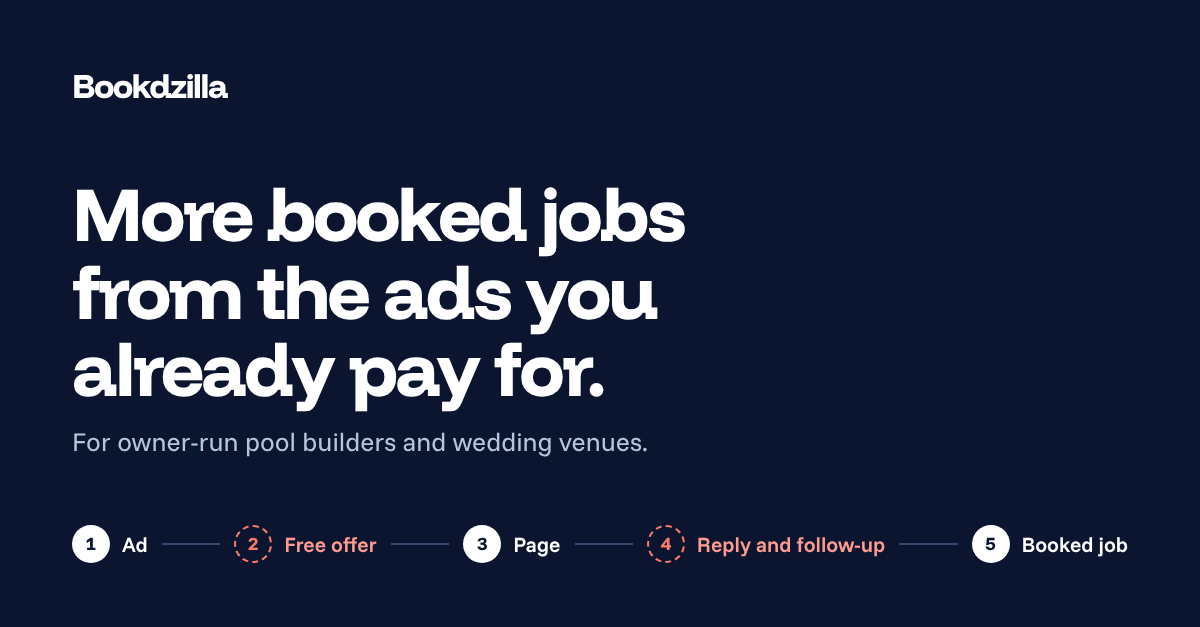
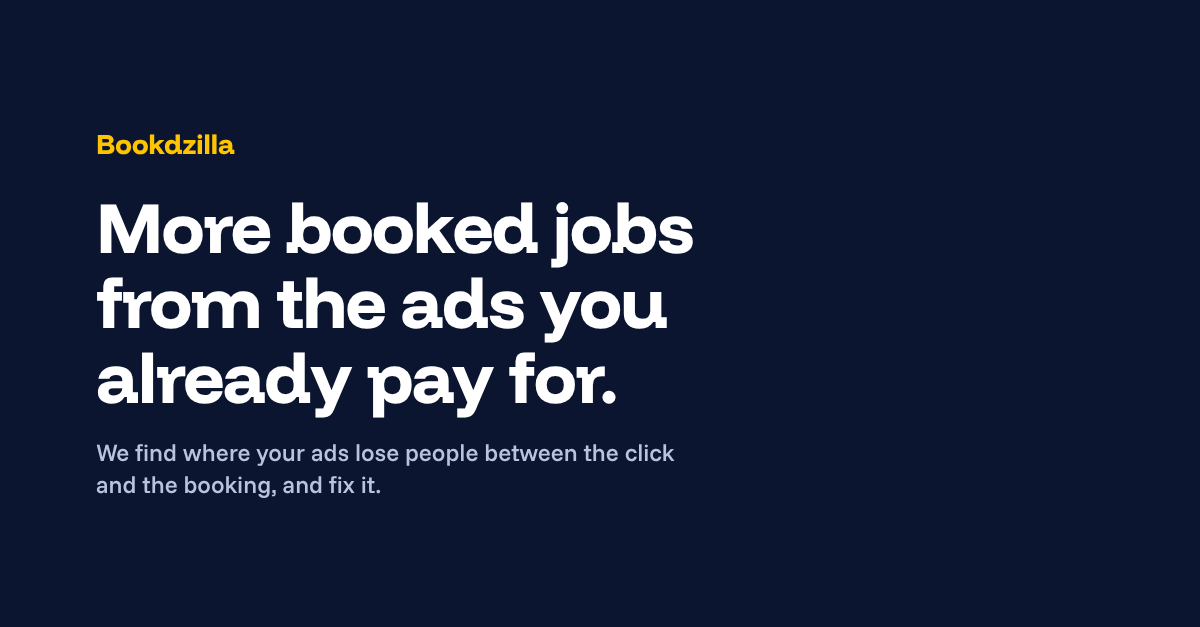
Leaks section shows the kinds of fixes, not one fixed system; new preview image
Claude-Session: https://claude.ai/code/session_016RMEP64JHwVvMxa7aEn8Ld

diff --git a/index.html b/index.html
@@ -4,18 +4,18 @@
 <meta charset="utf-8">
 <meta name="viewport" content="width=device-width,initial-scale=1">
 <title>Bookdzilla | More booked jobs from the ads you already pay for</title>
-<meta name="description" content="Bookdzilla finds where your paid traffic leaks between the click and the booking, then fixes it: ads with one clear promise, pages that keep it, a free offer, an answer within a minute and follow-up until they book. For owner-run pool builders and wedding venues. Free 2-minute leak check.">
+<meta name="description" content="Bookdzilla finds where your paid traffic leaks between the click and the booking, then fixes it, so the ads you already pay for book more jobs. For owner-run, high-ticket businesses. Free 2-minute leak check.">
 <link rel="icon" href="favicon.svg" type="image/svg+xml">
 <link rel="canonical" href="https://bookdzilla.pages.dev/">
 <meta property="og:title" content="Bookdzilla | More booked jobs from the ads you already pay for">
-<meta property="og:description" content="For owner-run pool builders and wedding venues. We find where your paid traffic leaks between the click and the booking, then fix it.">
+<meta property="og:description" content="For owner-run, high-ticket businesses. We find where your paid traffic leaks between the click and the booking, then fix it.">
 <meta property="og:url" content="https://bookdzilla.pages.dev/">
 <meta property="og:type" content="website">
 <meta property="og:image" content="https://bookdzilla.pages.dev/og.png">
 <meta property="og:image:width" content="1200">
 <meta property="og:image:height" content="627">
 <meta name="twitter:card" content="summary_large_image">
-<script type="application/ld+json">{"@context":"https://schema.org","@graph":[{"@type":"ProfessionalService","name":"Bookdzilla","url":"https://bookdzilla.pages.dev/","description":"More booked jobs from the ads you already pay for. Bookdzilla finds where paid traffic leaks between the click and the booking for owner-run pool builders and wedding venues, then fixes it.","areaServed":[{"@type":"State","name":"Texas"},{"@type":"Country","name":"United States"}],"serviceType":["Meta ads","Google ads landing pages","Lead follow-up","Appointment booking","Conversion rate optimization"],"founder":{"@type":"Person","name":"Hamza","url":"https://www.linkedin.com/in/hamza-bookdzilla/"},"email":"bookdzilla@gmail.com","offers":{"@type":"Offer","description":"Fixed monthly price set after a free leak check. Month to month. Ad budget paid directly to Meta or Google."}},{"@type":"FAQPage","mainEntity":[{"@type":"Question","name":"What does it cost?","acceptedAnswer":{"@type":"Answer","text":"It depends on what needs fixing and what one booked job is worth to you. You get a fixed monthly price after the free leak check, before anything starts, and it's month to month. Your ad budget stays yours and goes straight to Meta or Google. The fee covers the ads we make, the pages, the replies and follow-up, and the Monday report."}},{"@type":"Question","name":"Is there a contract?","acceptedAnswer":{"@type":"Answer","text":"No. You can stop any month."}},{"@type":"Question","name":"Who owns the ad accounts, pages and contacts?","acceptedAnswer":{"@type":"Answer","text":"You do. Your ad accounts, your pages and every contact stay yours if you stop."}},{"@type":"Question","name":"We don't run ads yet. Can you help?","acceptedAnswer":{"@type":"Answer","text":"Probably not yet. We work with businesses already paying for Meta or Google ads, because that's where leaks cost money you can see."}},{"@type":"Question","name":"Do you replace my ads person or agency?","acceptedAnswer":{"@type":"Answer","text":"Not necessarily. If someone runs your Google ads well, we work on what happens after the click: the pages, the free offer, the replies and the follow-up. We can run your Meta ads too."}},{"@type":"Question","name":"Where are you based?","acceptedAnswer":{"@type":"Answer","text":"Bookdzilla is run by Hamza from Bahawalpur, Pakistan, on US business hours, by email, video and LinkedIn. You see every page and message before it goes live."}},{"@type":"Question","name":"Do you use AI?","acceptedAnswer":{"@type":"Answer","text":"Yes, behind the scenes, like any good software: it helps us write ads, build pages faster and answer new leads within a minute. You approve every message before it goes live, and anyone who asks for a person gets you or your team. You pay for booked jobs, not software."}},{"@type":"Question","name":"How fast does it start?","acceptedAnswer":{"@type":"Answer","text":"The leak check video within a day of getting your website. If you go ahead, everything is live in about 14 days."}}]}]}</script>
+<script type="application/ld+json">{"@context":"https://schema.org","@graph":[{"@type":"ProfessionalService","name":"Bookdzilla","url":"https://bookdzilla.pages.dev/","description":"More booked jobs from the ads you already pay for. Bookdzilla finds where paid traffic leaks between the click and the booking for owner-run, high-ticket businesses, then fixes it.","areaServed":[{"@type":"State","name":"Texas"},{"@type":"Country","name":"United States"}],"serviceType":["Meta ads","Google ads landing pages","Lead follow-up","Appointment booking","Conversion rate optimization"],"founder":{"@type":"Person","name":"Hamza","url":"https://www.linkedin.com/in/hamza-bookdzilla/"},"email":"bookdzilla@gmail.com","offers":{"@type":"Offer","description":"Fixed monthly price set after a free leak check. Month to month. Ad budget paid directly to Meta or Google."}},{"@type":"FAQPage","mainEntity":[{"@type":"Question","name":"What does it cost?","acceptedAnswer":{"@type":"Answer","text":"It depends on what needs fixing and what one booked job is worth to you. You get a fixed monthly price after the free leak check, before anything starts, and it's month to month. Your ad budget stays yours and goes straight to Meta or Google. The fee covers the ads we make, the pages, the replies and follow-up, and the Monday report."}},{"@type":"Question","name":"Is there a contract?","acceptedAnswer":{"@type":"Answer","text":"No. You can stop any month."}},{"@type":"Question","name":"Who owns the ad accounts, pages and contacts?","acceptedAnswer":{"@type":"Answer","text":"You do. Your ad accounts, your pages and every contact stay yours if you stop."}},{"@type":"Question","name":"We don't run ads yet. Can you help?","acceptedAnswer":{"@type":"Answer","text":"Probably not yet. We work with businesses already paying for Meta or Google ads, because that's where leaks cost money you can see."}},{"@type":"Question","name":"Do you replace my ads person or agency?","acceptedAnswer":{"@type":"Answer","text":"Not necessarily. If someone runs your Google ads well, we work on what happens after the click. We can run your Meta ads too."}},{"@type":"Question","name":"Where are you based?","acceptedAnswer":{"@type":"Answer","text":"Bookdzilla is run by Hamza from Bahawalpur, Pakistan, on US business hours, by email, video and LinkedIn. You see every page and message before it goes live."}},{"@type":"Question","name":"Do you use AI?","acceptedAnswer":{"@type":"Answer","text":"Yes, behind the scenes, like any good software: it helps us write ads, build pages faster and answer new leads within a minute. You approve every message before it goes live, and anyone who asks for a person gets you or your team. You pay for booked jobs, not software."}},{"@type":"Question","name":"How fast does it start?","acceptedAnswer":{"@type":"Answer","text":"The leak check video within a day of getting your website. If you go ahead, everything is live in about 14 days."}}]}]}</script>
 <link rel="preconnect" href="https://fonts.googleapis.com">
 <link rel="preconnect" href="https://fonts.gstatic.com" crossorigin>
 <link rel="stylesheet" href="https://fonts.googleapis.com/css2?family=Funnel+Display:wght@500;700;800&family=Funnel+Sans:wght@400;500;600&display=swap">
@@ -250,7 +250,7 @@ footer a{color:var(--on-dark)}
       <h1>More booked jobs from the ads you already pay for.</h1>
       <div class="hero-row">
         <div>
-          <p class="lead">For owner-run pool builders and wedding venues. We find where your paid traffic leaks between the click and the booking, then fix it.</p>
+          <p class="lead">For owner-run, high-ticket businesses. We find where your paid traffic leaks between the click and the booking, then fix it.</p>
           <div class="acts">
             <a class="btn" href="#check">Get my free leak check</a>
             <small>A 2-minute video of your own ads and pages. Free, no call.</small>
@@ -310,32 +310,32 @@ footer a{color:var(--on-dark)}
   <section class="sec" id="leaks" aria-labelledby="leaks-h">
     <div class="wrap">
       <h2 id="leaks-h">Where paid traffic leaks.</h2>
-      <p class="intro">Every booked job travels the same five steps. Most businesses have the ad and a page. Almost none have the free offer or the follow-up, and that gap is where we start.</p>
+      <p class="intro">Every business leaks somewhere different. One has a tired ad, another a page that loses people, another a phone nobody answers after 5pm. The leak check finds yours, and the fix is built for that, not copied from a template.</p>
       <ol class="path">
         <li>
           <div class="step"><span class="n" aria-hidden="true">1</span><h3>The ad</h3></div>
-          <p class="lk"><b>Where it leaks</b>Three promises at once, or none. People click out of curiosity and leave.</p>
-          <p><b>What we do</b>Meta ads with one clear promise, written, designed and run by us. Your Google ads tidied so each one opens the page that matches it.</p>
-        </li>
-        <li class="missing">
-          <div class="step"><span class="n" aria-hidden="true">2</span><div><h3>A free offer</h3><span class="miss">Usually missing</span></div></div>
-          <p class="lk"><b>Where it leaks</b>Most people who click aren't ready to buy today. With nothing to take, they leave and don't come back.</p>
-          <p><b>What we do</b>Something worth asking for now: a backyard design visit or a local price guide for pool builders, an open-dates and pricing check for venues.</p>
+          <p class="lk"><b>Where it leaks</b>A vague promise, or creative that has gone stale and costs more every week.</p>
+          <p><b>What the fix can look like</b>New angles and creative, a sharper offer, or tighter targeting.</p>
         </li>
         <li>
-          <div class="step"><span class="n" aria-hidden="true">3</span><h3>The page</h3></div>
-          <p class="lk"><b>Where it leaks</b>The page doesn't repeat what the ad said, the reviews are hidden, and the form is screens away.</p>
-          <p><b>What we do</b>One page per ad that says what the ad said, your Google rating on the first screen, and booking or a quote one tap away.</p>
-        </li>
-        <li class="missing">
-          <div class="step"><span class="n" aria-hidden="true">4</span><div><h3>The answer and follow-up</h3><span class="miss">Usually missing</span></div></div>
-          <p class="lk"><b>Where it leaks</b>The reply comes the next day, then stops. Buyers ask two or three businesses and book whoever answers first.</p>
-          <p><b>What we do</b>An answer within a minute with prices and two times to choose from. Texts and emails keep going until they book or say no.</p>
+          <div class="step"><span class="n" aria-hidden="true">2</span><h3>The page</h3></div>
+          <p class="lk"><b>Where it leaks</b>It doesn't say what the ad said, hides the proof, or makes booking hard.</p>
+          <p><b>What the fix can look like</b>A reworked page, a new landing page, or a full funnel.</p>
         </li>
         <li>
-          <div class="step"><span class="n" aria-hidden="true">5</span><h3>The booked job</h3></div>
+          <div class="step"><span class="n" aria-hidden="true">3</span><h3>The enquiry</h3></div>
+          <p class="lk"><b>Where it leaks</b>The reply is slow or never comes. Buyers ask two or three businesses and book whoever answers first.</p>
+          <p><b>What the fix can look like</b>Faster answers, and follow-up that fits how your buyers decide.</p>
+        </li>
+        <li>
+          <div class="step"><span class="n" aria-hidden="true">4</span><h3>The booking</h3></div>
+          <p class="lk"><b>Where it leaks</b>People who aren't ready today have no reason to come back.</p>
+          <p><b>What the fix can look like</b>A reason to stay in touch until they are ready.</p>
+        </li>
+        <li>
+          <div class="step"><span class="n" aria-hidden="true">5</span><h3>The numbers</h3></div>
           <p class="lk"><b>Where it leaks</b>Nobody can say which ads turned into booked jobs, so budget keeps going to the ones that don't.</p>
-          <p><b>What we do</b>Every lead tracked to a booked design visit, tour or job, and reported to you every Monday.</p>
+          <p><b>What the fix can look like</b>Every lead tracked to a booked job, and reported to you every Monday.</p>
         </li>
       </ol>
     </div>
@@ -368,18 +368,18 @@ footer a{color:var(--on-dark)}
 
   <section class="sec for" id="for" aria-labelledby="for-h">
     <div class="wrap">
-      <h2 id="for-h">Built for two kinds of business.</h2>
+      <h2 id="for-h">Two niches we know well.</h2>
       <div class="grid">
         <article class="niche">
           <h3>Pool builders</h3>
           <p class="out">More booked design visits.</p>
-          <p>Homeowners ask two or three builders for a quote and lean toward whoever makes it easiest to book. We make that you: a page that keeps the ad's promise, a realistic price range in the first reply, and follow-up until the design visit is on your calendar.</p>
+          <p>Homeowners ask two or three builders for a quote and lean toward whoever makes it easiest to book. We make that you.</p>
           <a class="go" href="/pool-builders/">How we do it for pool builders</a>
         </article>
         <article class="niche">
           <h3>Wedding venues</h3>
           <p class="out">More booked tours.</p>
-          <p>Couples message several venues in one night and tour whoever answers first with a date and a price. We make sure that's you, at 9pm on a Thursday too, with your open dates, your starting price and two tour times.</p>
+          <p>Couples message several venues in one night and tour whoever answers first with a date and a price. We make sure that's you, at 9pm on a Thursday too.</p>
           <a class="go" href="/wedding-venues/">How we do it for wedding venues</a>
         </article>
       </div>
@@ -425,7 +425,7 @@ footer a{color:var(--on-dark)}
         <li>
           <span class="n">Step 2</span>
           <h3>We fix the path</h3>
-          <p>First we write down your last 30 days of leads, booked jobs and response time, so we both see what changes. Then the pages, the free offer, the replies and the follow-up go live in about 14 days. You approve everything first.</p>
+          <p>First we write down your last 30 days of leads, booked jobs and response time, so we both see what changes. Then the fixes go live, usually within 14 days. You approve everything first.</p>
         </li>
         <li class="price">
           <span class="n">Step 3</span>
@@ -444,7 +444,7 @@ footer a{color:var(--on-dark)}
         <div><h3>Is there a contract?</h3><p>No. You can stop any month.</p></div>
         <div><h3>Who owns the ad accounts, pages and contacts?</h3><p>You do. Your ad accounts, your pages and every contact stay yours if you stop.</p></div>
         <div><h3>We don't run ads yet. Can you help?</h3><p>Probably not yet. We work with businesses already paying for Meta or Google ads, because that's where leaks cost money you can see.</p></div>
-        <div><h3>Do you replace my ads person or agency?</h3><p>Not necessarily. If someone runs your Google ads well, we work on what happens after the click: the pages, the free offer, the replies and the follow-up. We can run your Meta ads too.</p></div>
+        <div><h3>Do you replace my ads person or agency?</h3><p>Not necessarily. If someone runs your Google ads well, we work on what happens after the click. We can run your Meta ads too.</p></div>
         <div><h3>Where are you based?</h3><p>Bookdzilla is run by Hamza from Bahawalpur, Pakistan, on US business hours, by email, video and LinkedIn. You see every page and message before it goes live.</p></div>
         <div><h3>Do you use AI?</h3><p>Yes, behind the scenes, like any good software: it helps us write ads, build pages faster and answer new leads within a minute. You approve every message before it goes live, and anyone who asks for a person gets you or your team. You pay for booked jobs, not software.</p></div>
         <div><h3>How fast does it start?</h3><p>The leak check video within a day of getting your website. If you go ahead, everything is live in about 14 days.</p></div>
